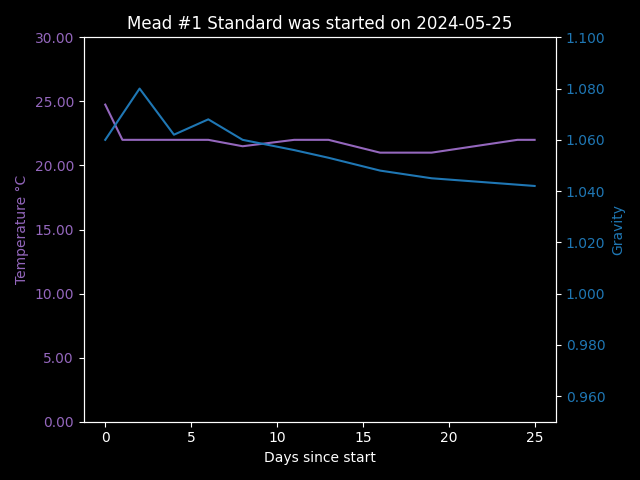
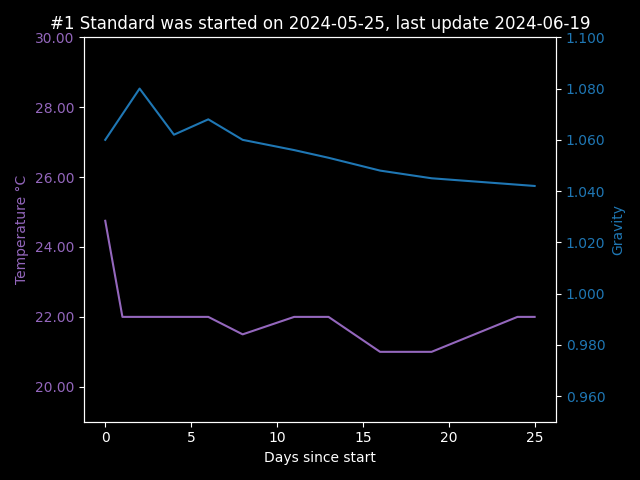
fixed last update text

diff --git a/AutoGraph.py b/AutoGraph.py
@@ -32,13 +32,22 @@ class FermentDataPoint(NamedTuple):
         self.grav = value
 
     def __gt__(self, other):
-        self.date.__gt__(other.date)
+        if isinstance(other, FermentDataPoint):
+            self.date.__gt__(other.date)
+        else:
+            self.date.__gt__(other)
 
     def __lt__(self, other):
-        self.date.__lt__(other.date)
+        if isinstance(other, FermentDataPoint):
+            self.date.__lt__(other.date)
+        else:
+            self.date.__lt__(other)
 
     def __eq__(self, other):
-        self.date.__eq__(other.date)
+        if isinstance(other, FermentDataPoint):
+            self.date.__eq__(other.date)
+        else:
+            self.date.__eq__(other)
 
     def __str__(self):
         temp_text = f'{self.temp:.2f}' if self.temp is not None else "N/A"
@@ -90,12 +99,15 @@ def make_graph(tar, data_: list[FermentDataPoint]):
     ax1: matplotlib.pyplot.Axes
     # data needs to be in a different layout, should have planne for this earlier
     data = ([], [], [])
-    date_min = min(data_).date
-    data_temp_t = []
-    data_temp = []
+    date_list = [d.date for d in data_]
+    date_min = min(date_list)
+    date_max = max(date_list)
 
-    data_grav_t = []
-    data_grav = []
+    data_temp_t: list[int]= []
+    data_temp:list[float] = []
+
+    data_grav_t: list[int]= []
+    data_grav:list[float] = []
 
     for d in data_:
         # Dates are less useful
@@ -115,7 +127,7 @@ def make_graph(tar, data_: list[FermentDataPoint]):
     ax1.set_ylabel("Temperature °C", color=colour_1)
     ax1.set(
         xlabel="Days since start",
-        ylim=[0, 30], # brewing outside the 0-30c range seems like a no-no, might modify one day
+        ylim=[max(15, int(min(data_temp))-2), max(30, int(min(data_temp))+1)],
     )
 
     ax2 = ax1.twinx()
@@ -135,7 +147,7 @@ def make_graph(tar, data_: list[FermentDataPoint]):
     ax2.yaxis.set_major_formatter(ticker.FormatStrFormatter('%.3f'))
 
     ax1.set_title(
-        f"Mead {tar.name.rsplit('.', 1)[0]} was started on {date_min.isoformat()}"
+        f"{tar.name.rsplit('.', 1)[0]} was started on {date_min.isoformat()}, last update {date_max.isoformat()}"
     )
 
     fig.tight_layout()
